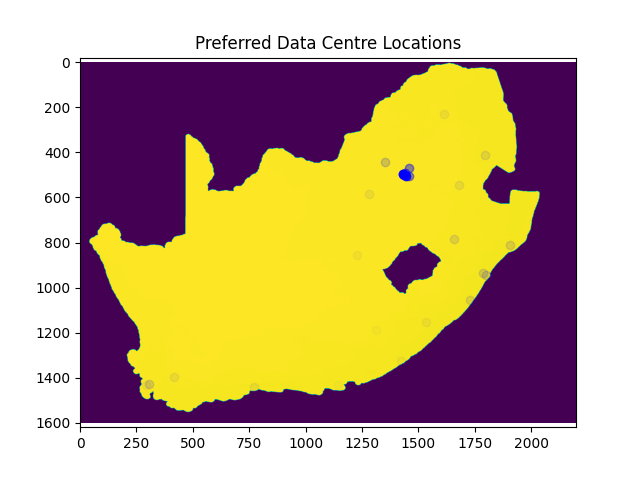
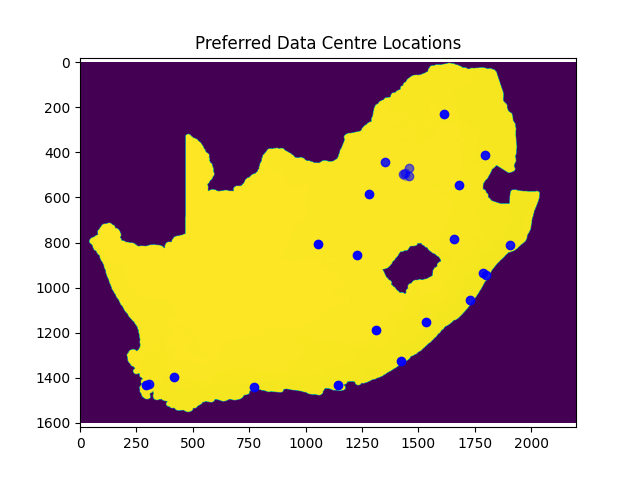
created inversion ability for data centres

diff --git a/ImageManipulation.py b/ImageManipulation.py
@@ -109,6 +109,7 @@ class ImageManipulation:
                                              src: rasterio.io.DatasetReader,
                                              img: np.ndarray,
                                              intensity_column: str,
+                                             invert_preference: bool = False,
                                              title: str = None,
                                              zoombounds: tuple = None,
                                              cmap = 'hot_r',
@@ -122,6 +123,7 @@ class ImageManipulation:
         :param src: The rasterio source object for the image.
         :param img: The image as a numpy array.
         :param intensity_column: The column in the data centre frame that contains the intensity values.
+        :param invert_preference: Whether or not to invert the preference of the intensity values.
         :param title: The title of the plot.
         :param zoombounds: The bounds of the plot.
         :param cmap: The color map to use.
@@ -148,6 +150,8 @@ class ImageManipulation:
         # Get the intensity values
         intensity_values = np.array(data_centre_frame[intensity_column].to_list())
         normalised_intensity_values = (intensity_values - np.min(intensity_values)) / (np.max(intensity_values) - np.min(intensity_values))
+        if invert_preference:
+            normalised_intensity_values = 1 - normalised_intensity_values
 
         # Plot the data centres on the map
         for (lat, long), intensity in zip(coords, normalised_intensity_values):

diff --git a/Analytics.py b/Analytics.py
@@ -181,6 +181,7 @@ def run_analysis(outfile: str = None) -> pd.DataFrame:
                                                              src=solar_src,
                                                              img=solar_image,
                                                              intensity_column='Total Land Price (R)',
+                                                             invert_preference=True,
                                                              title='Preferred Data Centre Locations',
                                                              zoombounds=(0, 1600, 2200, 0),
                                                              cmap='viridis',
